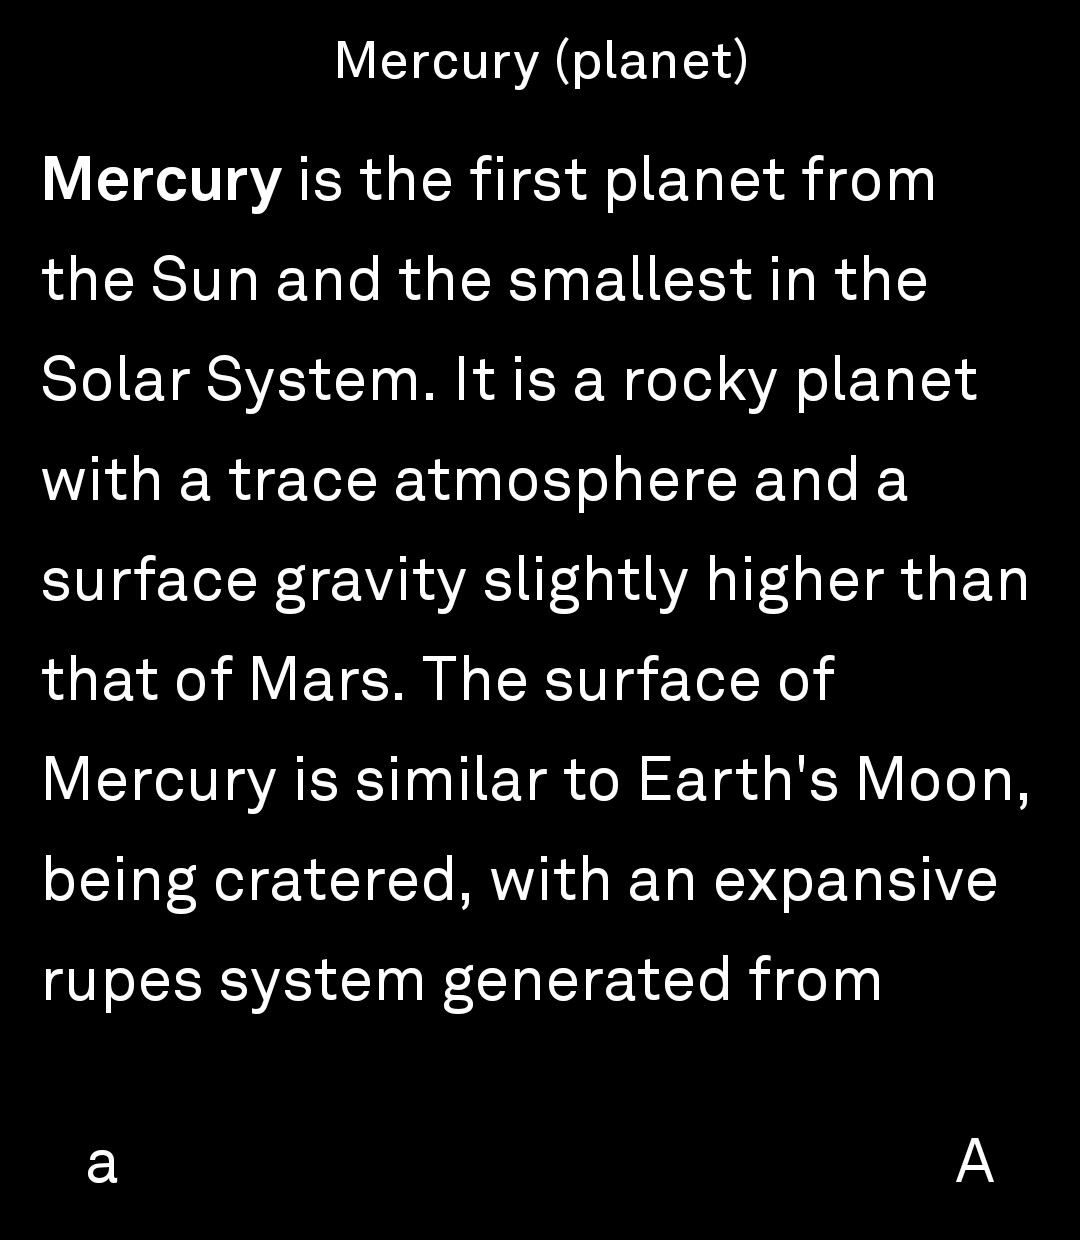
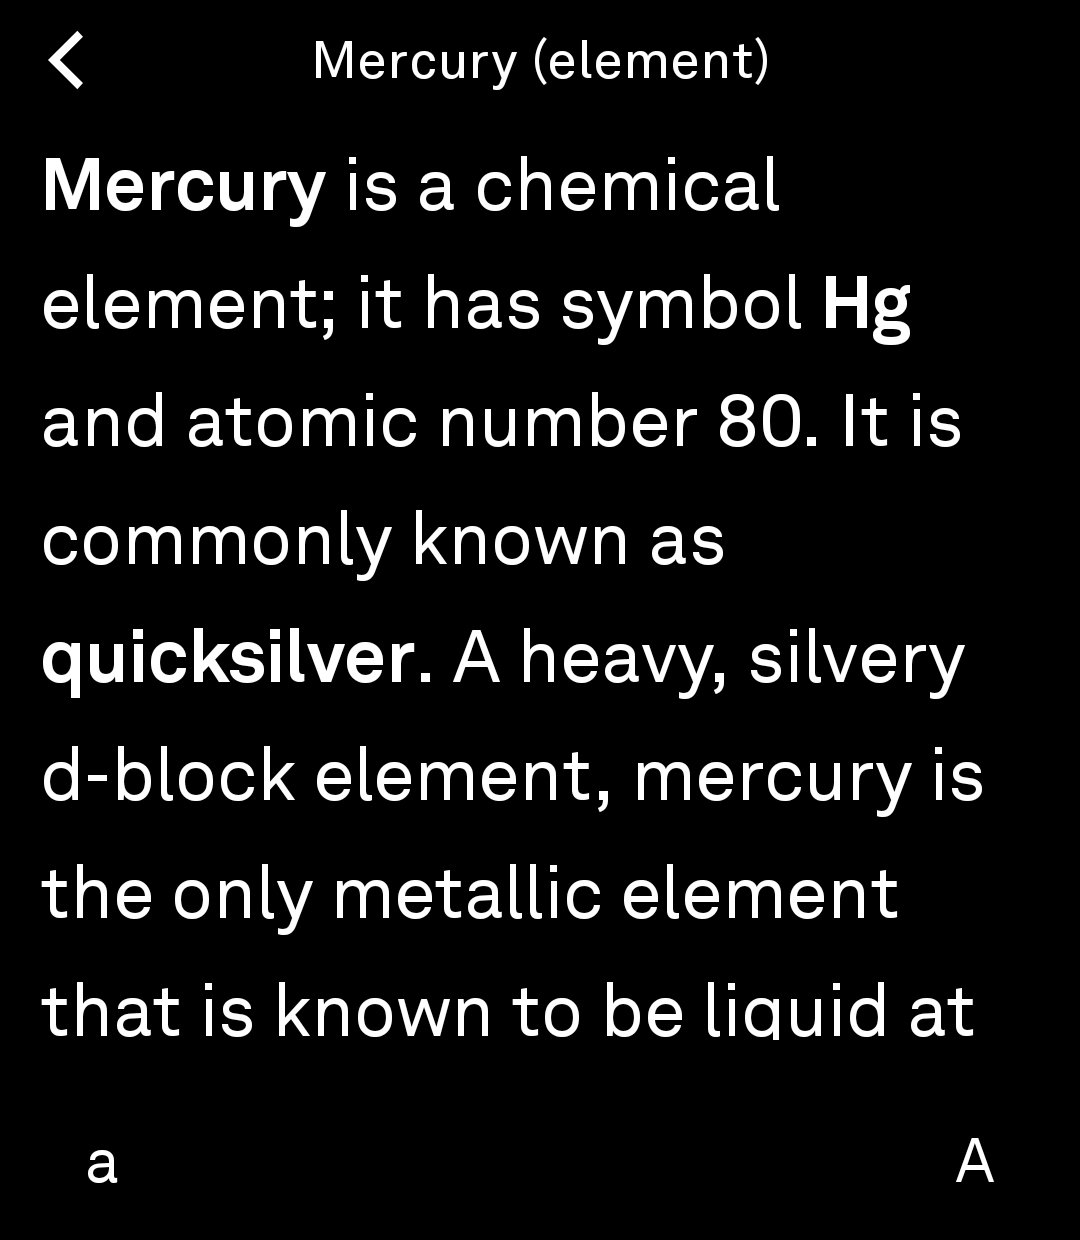
fix: on-screen back affordance on pushed screens + math decision recorded
- LightTopBar back chevron (SDK idiom) on Disambiguation and Article
  screens -> goBack(); Search is the initial screen and has none.
  Gap found by Tyler on hardware: adb KEYCODE_BACK masked that no
  on-screen affordance existed and the LP3 has no hardware back
- chevron round-trip verified on TLP301: article -> chooser -> search
  (results restored); screenshots 04/05 retaken showing the chevron
- exclusions §10.5: display-math decision recorded (Tyler 2026-07-29:
  ship v1 with display equations dropped; PNG path = backlog #1)

diff --git a/tool/src/main/kotlin/dev/tyler/wiki/ui/DisambiguationScreen.kt b/tool/src/main/kotlin/dev/tyler/wiki/ui/DisambiguationScreen.kt
@@ -15,6 +15,8 @@ import androidx.lifecycle.viewModelScope
 import com.thelightphone.sdk.LightScreen
 import com.thelightphone.sdk.LightViewModel
 import com.thelightphone.sdk.SealedLightActivity
+import com.thelightphone.sdk.ui.LightBarButton
+import com.thelightphone.sdk.ui.LightIcons
 import com.thelightphone.sdk.ui.LightText
 import com.thelightphone.sdk.ui.LightTextVariant
 import com.thelightphone.sdk.ui.LightTheme
@@ -80,6 +82,11 @@ class DisambiguationScreen(
                     .background(LightThemeTokens.colors.background),
             ) {
                 LightTopBar(
+                    leftButton = LightBarButton.LightIcon(
+                        icon = LightIcons.BACK,
+                        onClick = { goBack() },
+                        contentDescription = "Back",
+                    ),
                     center = LightTopBarCenter.Text(title),
                     modifier = Modifier.padding(bottom = 1f.gridUnitsAsDp()),
                 )

diff --git a/tool/src/main/kotlin/dev/tyler/wiki/ui/ArticleScreen.kt b/tool/src/main/kotlin/dev/tyler/wiki/ui/ArticleScreen.kt
@@ -20,6 +20,7 @@ import com.thelightphone.sdk.LightViewModel
 import com.thelightphone.sdk.SealedLightActivity
 import com.thelightphone.sdk.ui.LightBarButton
 import com.thelightphone.sdk.ui.LightBottomBar
+import com.thelightphone.sdk.ui.LightIcons
 import com.thelightphone.sdk.ui.LightText
 import com.thelightphone.sdk.ui.LightTextVariant
 import com.thelightphone.sdk.ui.LightTheme
@@ -121,6 +122,11 @@ class ArticleScreen(
                     .background(LightThemeTokens.colors.background),
             ) {
                 LightTopBar(
+                    leftButton = LightBarButton.LightIcon(
+                        icon = LightIcons.BACK,
+                        onClick = { goBack() },
+                        contentDescription = "Back",
+                    ),
                     center = LightTopBarCenter.Text(title),
                     modifier = Modifier.padding(bottom = 0.5f.gridUnitsAsDp()),
                 )

diff --git a/rendering-exclusions.md b/rendering-exclusions.md
@@ -179,10 +179,10 @@ everything else drops silently.*
    `BitmapFactory` cannot decode. Outcome: display math (`Block.MathImage`)
    is extracted but **not rendered** (`BlockRenderer` skips it); inline math
    still contributes its `alt` text (LaTeX source) to the paragraph. The
-   two-host defense claim stays intact. Rendering display math (PNG variant
-   endpoint + allowlist question, or MathML) → backlog, pending a scope
-   decision (deviates from the 03 §1 frozen table, which listed math
-   fallback images as in-scope).
+   two-host defense claim stays intact. **Decision (Tyler, 2026-07-29):
+   v1 ships with display equations dropped.** Rendering them via the
+   verified PNG variant endpoint (scoped third Wikimedia host + inversion
+   ColorFilter) is backlog item #1, post-approval.
 6. **IPA/pronunciation** → kept as plain text (§9).
 7. **Wide tables** → simplified text grid (`Block.SimpleTable`), horizontal
    scroll at render time; no grid-fidelity work in v1.
